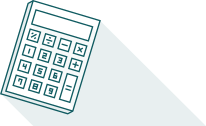
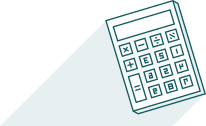
minor changes

Changed region(s): [[0.0, 0.0, 1.0, 0.9286]]

diff --git a/en/css/main.css b/en/css/main.css
@@ -1147,13 +1147,7 @@ p {
 
 .requestform {
     background: rgba(40, 132, 115, 1);
-    background-image: url('../imgs/saudimaalem.png');
-    background: url(../imgs/request.png) 80% / 18% no-repeat white;
-    background: url(../imgs/request.png) 80% / 18% no-repeat white;
-    background: url(../imgs/request.png) 80% / 18% no-repeat white;
-    background: url(../imgs/request.png) 80% / 18% no-repeat white;
-    background: url(../imgs/request.png) 80% / 18% no-repeat white;
-    background: url(../imgs/request.png) 80% / 18% no-repeat white;
+    background: url(../imgs/request.png) 80% / 150px no-repeat white;
     padding: 0 15px;
 }
 
@@ -1173,7 +1167,7 @@ p {
 
 .requestcalc {
     background: rgba(40, 132, 115, 1);
-    background: url(../imgs/calc_maalem.png) 80% / 60% no-repeat white;
+    background: url(../imgs/calc_maalem.png) 80% / 150px no-repeat white;
     padding: 0 15px;
 }
 

diff --git a/en/js/site.js b/en/js/site.js
@@ -158,3 +158,28 @@ $(document).ready(function () {
             });
         });
     })(jQuery);
+
+var isMobile = {
+    Android: function() {
+        return navigator.userAgent.match(/Android/i);
+    },
+    BlackBerry: function() {
+        return navigator.userAgent.match(/BlackBerry/i);
+    },
+    iOS: function() {
+        return navigator.userAgent.match(/iPhone|iPad|iPod/i);
+    },
+    Opera: function() {
+        return navigator.userAgent.match(/Opera Mini/i);
+    },
+    Windows: function() {
+        return navigator.userAgent.match(/IEMobile/i);
+    },
+    any: function() {
+        return (isMobile.Android() || isMobile.BlackBerry() || isMobile.iOS() || isMobile.Opera() || isMobile.Windows());
+    }
+};
+
+if(isMobile.any()) {
+    alert("mobile");
+}

diff --git a/js/site.js b/js/site.js
@@ -158,3 +158,28 @@ $(document).ready(function () {
             });
         });
     })(jQuery);
+
+var isMobile = {
+    Android: function() {
+        return navigator.userAgent.match(/Android/i);
+    },
+    BlackBerry: function() {
+        return navigator.userAgent.match(/BlackBerry/i);
+    },
+    iOS: function() {
+        return navigator.userAgent.match(/iPhone|iPad|iPod/i);
+    },
+    Opera: function() {
+        return navigator.userAgent.match(/Opera Mini/i);
+    },
+    Windows: function() {
+        return navigator.userAgent.match(/IEMobile/i);
+    },
+    any: function() {
+        return (isMobile.Android() || isMobile.BlackBerry() || isMobile.iOS() || isMobile.Opera() || isMobile.Windows());
+    }
+};
+
+if(isMobile.any()) {
+    alert("mobile");
+}

diff --git a/en/structure.html b/en/structure.html
@@ -177,7 +177,7 @@
                     </div>
                     <div class="aboutus-text-less">
                         <div class="img-responsive">
-                            <img class="structure-img" src="imgs/structure.jpg">
+                            <img class="structure-img" src="imgs/chart.jpg">
                         </div>
                     </div>
 
